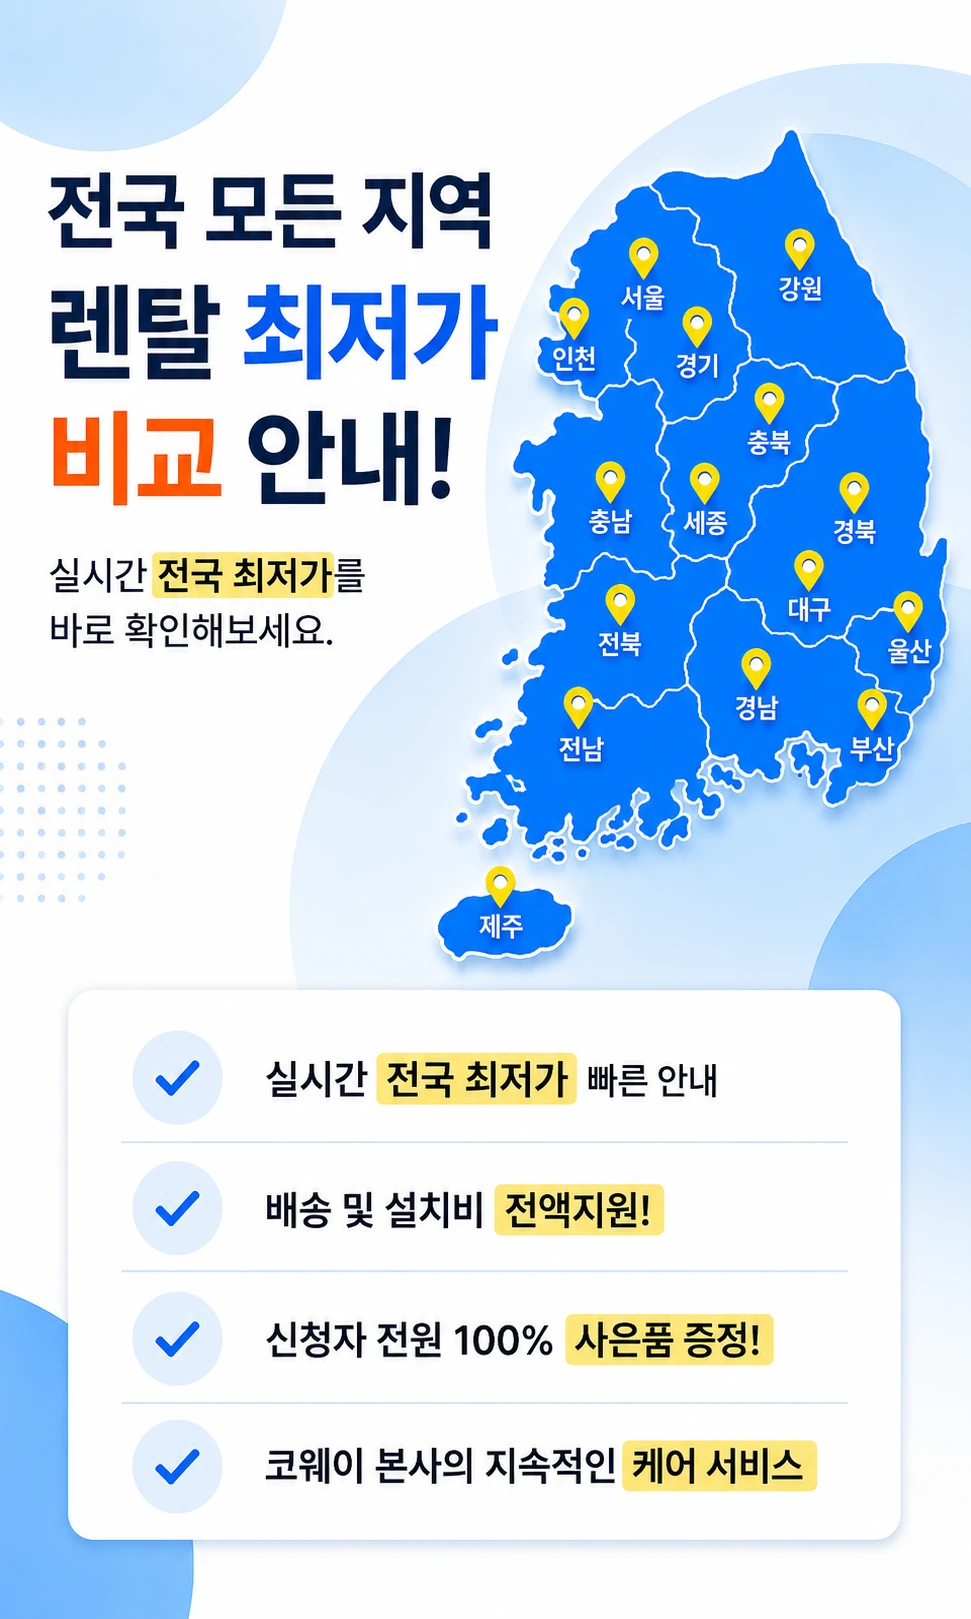
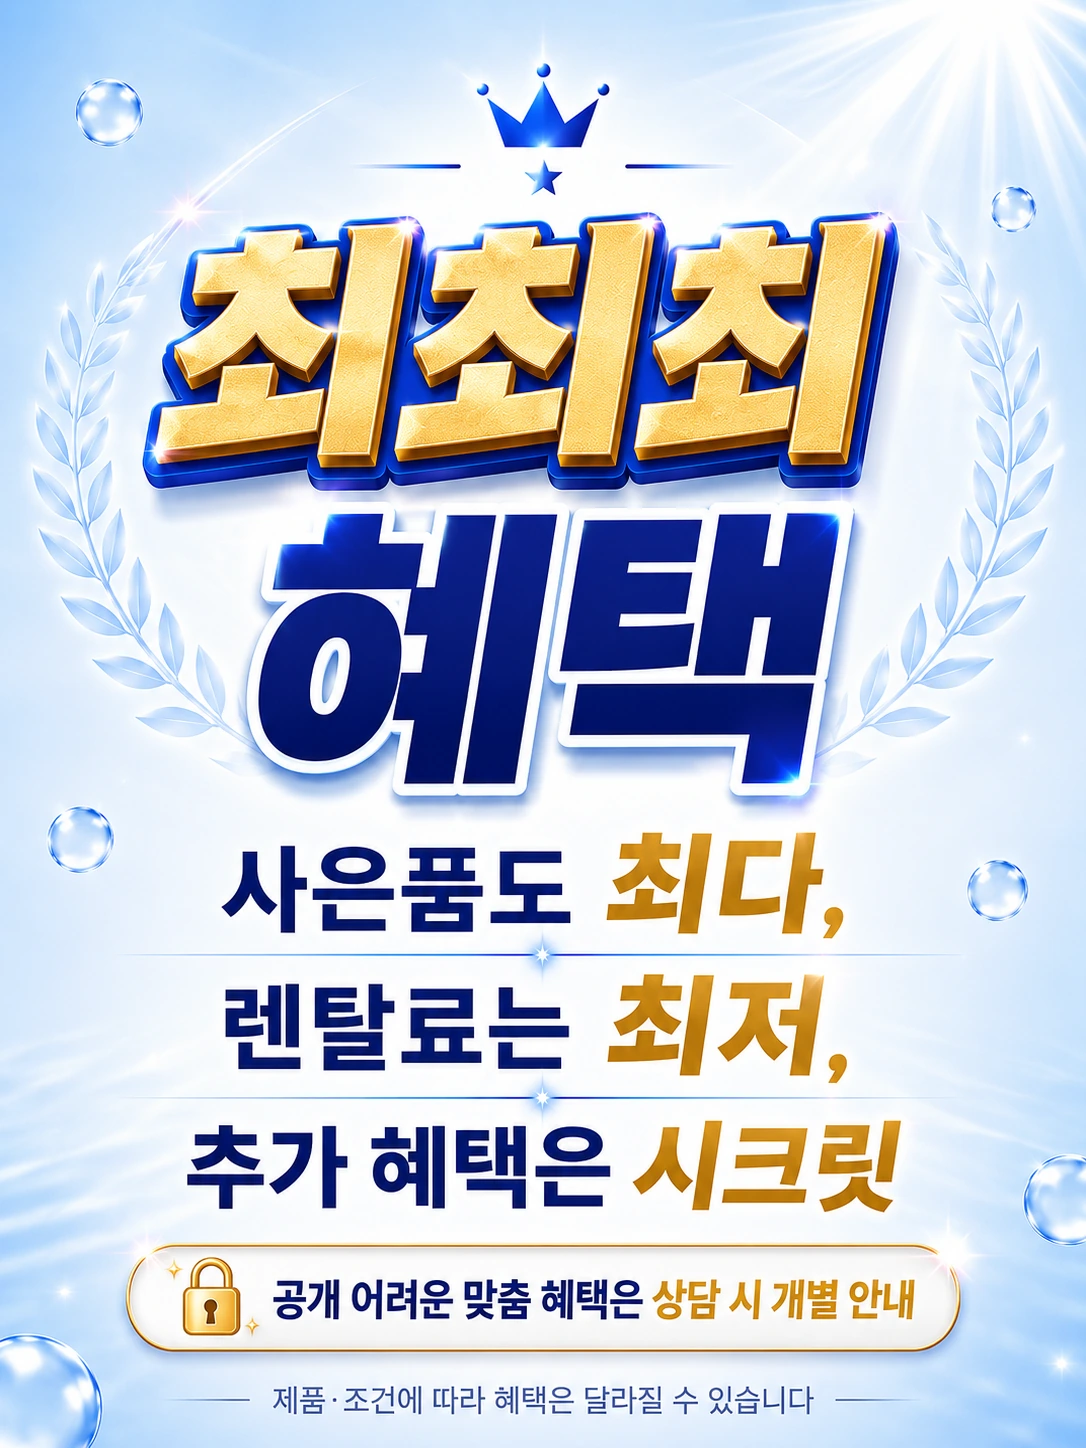
Add files via upload

diff --git a/landing.html b/landing.html
@@ -482,14 +482,8 @@ height="0" width="0" style="display:none;visibility:hidden"></iframe></noscript>
         </div>
         <a class="live-apply-cta" href="#form" onclick="return openConsultModal('live_apply_top')">지금 혜택 확인하기</a>
       </div>
-      <div class="live-apply-frame">
-        <iframe src="https://dbsense.kr/js/form/live_list.html?cid=y184wivvq5&c11=9&c12=0&c13=0&c14=0&width=800" width="100%" height="336" frameborder="0" loading="lazy" scrolling="no" style="border:0;display:block;overflow:hidden"></iframe>
-      </div>
     </div>
   </section>
-  <div class="top-banner__item">
-    <img src="images/region-rental-price-guide.webp" alt="전국 모든 지역 렌탈 최저가 비교 안내" loading="lazy" decoding="async">
-  </div>
   <div class="top-banner__item">
     <div class="top-banner__stage">
       <img src="images/top-banner-03-custom.webp" alt="코웨이 렌탈 BEST 특가 안내" loading="lazy" decoding="async">
@@ -498,6 +492,9 @@ height="0" width="0" style="display:none;visibility:hidden"></iframe></noscript>
       <button class="top-banner__hotspot top-banner__hotspot--spec-3" type="button" aria-label="스스로케어 비데 상담 팝업 열기" onclick="handleProductInterest('product_bidet','스스로케어 비데')"></button>
       <button class="top-banner__hotspot top-banner__hotspot--spec-4" type="button" aria-label="노블 공기청정기2 상담 팝업 열기" onclick="handleProductInterest('product_air_purifier','노블 공기청정기2')"></button>
     </div>
+  </div>
+  <div class="top-banner__item">
+    <img src="images/secret-support-benefit.webp" alt="선착순 100명 한정 비공개 추가 지원 혜택 안내" loading="lazy" decoding="async">
   </div>
   <div class="top-banner__item" id="gift-guide">
     <img src="images/top-banner-04-custom.webp" alt="프리미엄 사은품 목록 안내" loading="lazy" decoding="async">
@@ -534,7 +531,7 @@ height="0" width="0" style="display:none;visibility:hidden"></iframe></noscript>
       <img src="images/product-modal-custom.webp" alt="코웨이 상담사가 직접 전화드리는 팝업 안내" width="789" height="738">
     </div>
     <div class="product-modal__actions">
-      <button class="product-modal__cta" type="button" onclick="confirmProductInterest()">코웨이 상담사 연결하기</button>
+      <button class="product-modal__cta" type="button" onclick="confirmProductInterest()">30초 신청하기</button>
       <button class="product-modal__subcta" type="button" onclick="openGiftGuideFromModal()">사은품 먼저 보기</button>
       <div class="product-modal__foot">상담 신청을 남기시면 코웨이 상담사가 순차적으로 연락드립니다.</div>
     </div>
